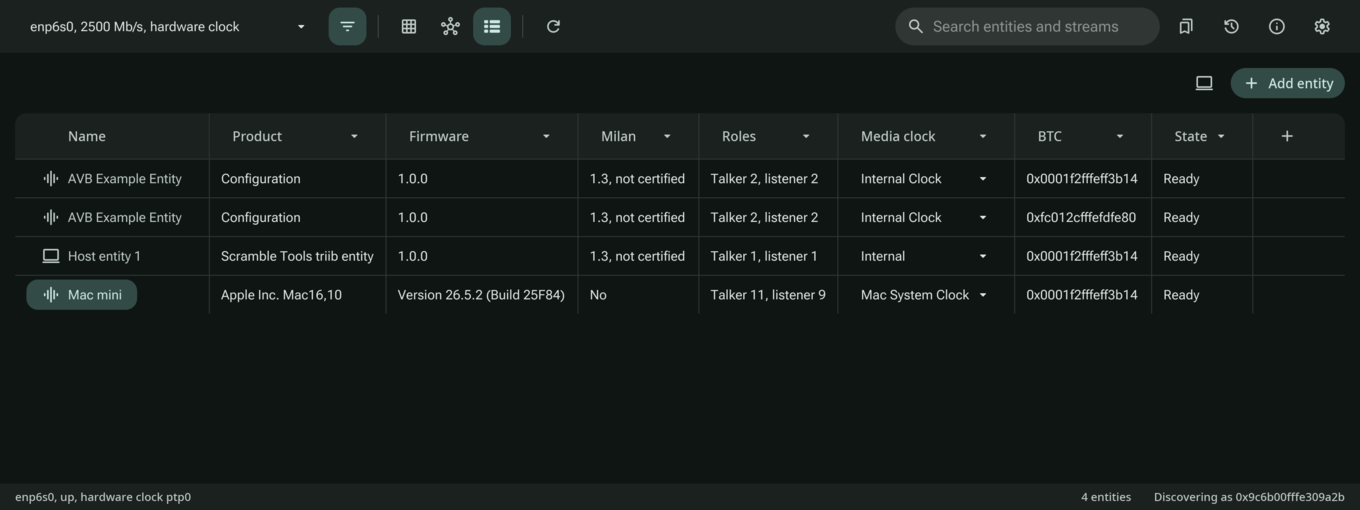
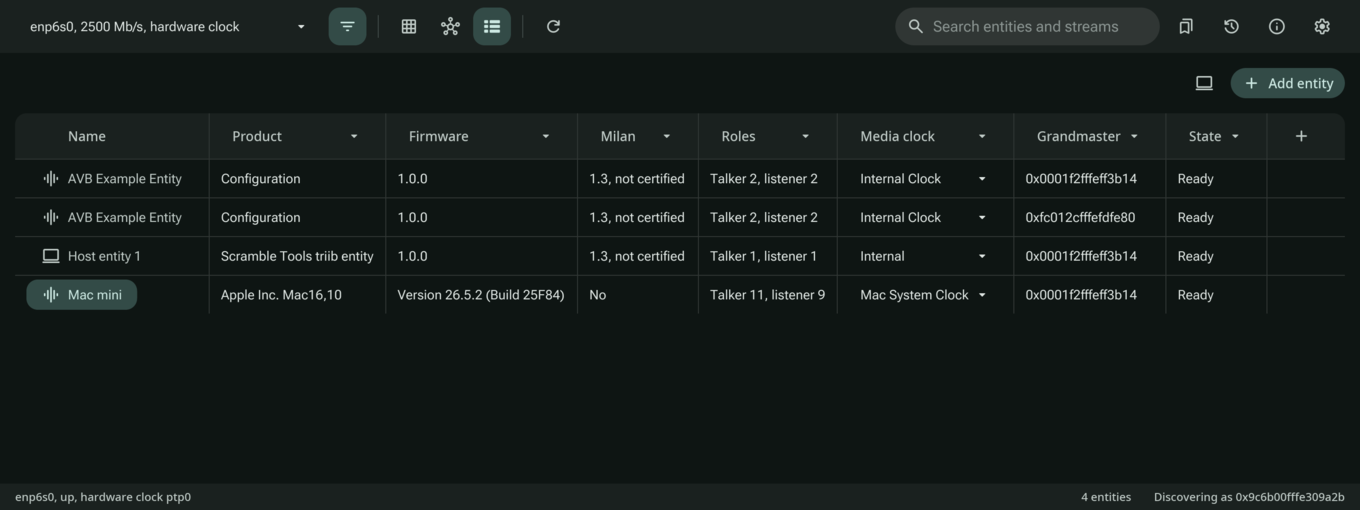
fix: an entity's grandmaster says Grandmaster, not BTC
The entity list's column and the inspector's field for the gPTP
grandmaster an entity advertises said BTC, for the best timeTransmitter
clock, where grandmaster is the word everyone knows. Both now say
Grandmaster, through the app's existing string, already translated in
every language, so advert-btc leaves every catalogue, and triib-cli
discover prints grandmaster. A column saved as btc in the settings, or
its width, loads as the grandmaster column.

The glossary no longer keeps BTC among its acronyms, the ESP notes say
grandmaster, and the entity list's screenshot shows the new heading.

diff --git a/crates/triib/src/settings.rs b/crates/triib/src/settings.rs
@@ -233,7 +233,9 @@ pub enum EntityField {
     #[serde(alias = "clock-source")]
     MediaClock,
     SamplingRate,
-    Btc,
+    /// The gPTP grandmaster the entity advertises.
+    #[serde(alias = "btc")]
+    Grandmaster,
     State,
     EntityId,
     MacAddress,
@@ -262,7 +264,7 @@ impl EntityField {
         Self::Roles,
         Self::MediaClock,
         Self::SamplingRate,
-        Self::Btc,
+        Self::Grandmaster,
         Self::State,
         Self::EntityId,
         Self::MacAddress,
@@ -283,7 +285,7 @@ impl EntityField {
         Self::Milan,
         Self::Roles,
         Self::MediaClock,
-        Self::Btc,
+        Self::Grandmaster,
         Self::State,
         Self::EntityId,
     ];
@@ -301,7 +303,7 @@ impl EntityField {
             Self::Roles => crate::fl!("advert-roles"),
             Self::MediaClock => crate::fl!("entity-media-clock"),
             Self::SamplingRate => crate::fl!("entity-sampling-rate"),
-            Self::Btc => crate::fl!("advert-btc"),
+            Self::Grandmaster => crate::fl!("avb-interface-grandmaster"),
             Self::State => crate::fl!("column-state"),
             Self::EntityId => crate::fl!("advert-entity-id"),
             Self::MacAddress => crate::fl!("common-mac-address"),
@@ -408,11 +410,13 @@ mod tests {
         let file = std::env::temp_dir().join(format!("triib-renamed-{}.toml", std::process::id()));
         triib_store::save(&file, &Settings::default()).unwrap();
         // The media clock view and the clock source column, as an older
-        // triib saved them, beside the media clock column.
+        // triib saved them, beside the media clock column, and the
+        // grandmaster's column by its older name.
         let saved = std::fs::read_to_string(&file).unwrap();
         let older = saved
             .replace("view = \"matrix\"", "view = \"clocks\"")
-            .replace("\"media-clock\"", "\"clock-source\", \"media-clock\"");
+            .replace("\"media-clock\"", "\"clock-source\", \"media-clock\"")
+            .replace("\"grandmaster\"", "\"btc\"");
         assert_ne!(older, saved);
         std::fs::write(&file, older).unwrap();
         let loaded = triib_store::load_or_create::<Settings>(&file)
@@ -421,6 +425,20 @@ mod tests {
         let _ = std::fs::remove_file(&file);
         assert_eq!(loaded.view, View::Entities);
         assert_eq!(loaded.entity_columns, EntityField::DEFAULT_COLUMNS);
+
+        // A column's width kept by the grandmaster's older name.
+        let older = saved.replace(
+            "[entity_column_widths]\n",
+            "[entity_column_widths]\nbtc = 73.5\n",
+        );
+        assert_ne!(older, saved);
+        std::fs::write(&file, older).unwrap();
+        let loaded = triib_store::load_or_create::<Settings>(&file).unwrap();
+        let _ = std::fs::remove_file(&file);
+        assert_eq!(
+            loaded.entity_column_widths.get(&EntityField::Grandmaster),
+            Some(&73.5)
+        );
 
         // The log view, now a panel.
         std::fs::write(&file, saved.replace("view = \"matrix\"", "view = \"log\"")).unwrap();

diff --git a/crates/triib/src/entity_table.rs b/crates/triib/src/entity_table.rs
@@ -95,7 +95,7 @@ fn value(field: EntityField, entity: &DiscoveredEntity, model: Option<&EntityMod
             .map_or_else(String::new, |unit| {
                 Rate(unit.current_sampling_rate).to_string()
             }),
-        EntityField::Btc => describe::clock(&entity.adp),
+        EntityField::Grandmaster => describe::clock(&entity.adp),
         EntityField::State => describe::read_state(model),
         EntityField::EntityId => entity.entity_id().to_string(),
         EntityField::MacAddress => entity.mac.to_string(),
@@ -588,7 +588,7 @@ mod tests {
         // Group becomes Vendor; a field shown elsewhere is not taken twice.
         let _ = triib.update(Message::EntityColumn(0, Some(EntityField::Vendor)));
         assert_eq!(columns(&triib)[0], EntityField::Vendor);
-        let _ = triib.update(Message::EntityColumn(0, Some(EntityField::Btc)));
+        let _ = triib.update(Message::EntityColumn(0, Some(EntityField::Grandmaster)));
         assert_eq!(columns(&triib)[0], EntityField::Vendor);
         // Product goes; MAC address comes at the right.
         let _ = triib.update(Message::EntityColumn(1, None));
@@ -901,11 +901,11 @@ mod tests {
 
     #[test]
     fn menus_offer_only_what_no_column_shows() {
-        let columns = [EntityField::Group, EntityField::Btc];
+        let columns = [EntityField::Group, EntityField::Grandmaster];
         let offered: Vec<EntityField> = unshown(&columns).collect();
         assert_eq!(offered.len(), EntityField::ALL.len() - 2);
         assert!(!offered.contains(&EntityField::Group));
-        assert!(!offered.contains(&EntityField::Btc));
+        assert!(!offered.contains(&EntityField::Grandmaster));
         assert_eq!(offered[0], EntityField::Product);
         assert_eq!(unshown(&EntityField::ALL).count(), 0);
     }

diff --git a/crates/triib/src/view.rs b/crates/triib/src/view.rs
@@ -1876,7 +1876,7 @@ fn advertisement_details(entity: &DiscoveredEntity) -> Vec<Element<'_, Message>>
             flags_text(adp.listener_capabilities.names()),
         ),
         component::section(fl!("advert-clock")),
-        property(fl!("advert-btc"), describe::clock(adp)),
+        property(fl!("avb-interface-grandmaster"), describe::clock(adp)),
         property(
             fl!("advert-gptp-domain"),
             adp.gptp_domain_number.to_string(),

diff --git a/crates/atdecc/src/controller.rs b/crates/atdecc/src/controller.rs
@@ -215,7 +215,7 @@ pub enum OfflineReason {
 pub enum Event {
     /// A new entity, or one back after going offline.
     EntityOnline(EntityId),
-    /// An entity advertised different capabilities, BTC, configuration or
+    /// An entity advertised different capabilities, grandmaster, configuration or
     /// address.
     EntityChanged(EntityId),
     /// An entity's available_index went back, so it restarted; its model

diff --git a/crates/triib-cli/src/main.rs b/crates/triib-cli/src/main.rs
@@ -2680,7 +2680,7 @@ fn summary(entity: &DiscoveredEntity) -> String {
         .contains(EntityCapabilities::GPTP_SUPPORTED)
     {
         format!(
-            "BTC {} domain {}",
+            "grandmaster {} domain {}",
             adp.gptp_grandmaster_id, adp.gptp_domain_number
         )
     } else {

diff --git a/crates/triib/src/describe.rs b/crates/triib/src/describe.rs
@@ -74,7 +74,7 @@ pub fn classes(adp: &Adpdu) -> String {
     }
 }
 
-/// Its gPTP BTC, or that it has none.
+/// Its gPTP grandmaster, or that it has none.
 pub fn clock(adp: &Adpdu) -> String {
     if adp
         .entity_capabilities

diff --git a/docs/esp_avb.md b/docs/esp_avb.md
@@ -55,16 +55,16 @@ captured may run older or newer builds.
 - **Impact:** endpoints powered up together keep advertising in step,
   bunching ADP traffic.
 
-### 4. No re-advertisement when the BTC changes (2026-10-03 23:11 PDT)
+### 4. No re-advertisement when the grandmaster changes (2026-10-03 23:11 PDT)
 
 - **Seen:** from reading the code only, not on the wire.
 - **Code:** the periodic send in `avb.c:1000` is the only trigger for
-  ENTITY_AVAILABLE; nothing sends one when the best timetransmitter clock
-  changes.
+  ENTITY_AVAILABLE; nothing sends one when the grandmaster changes.
 - **Standard:** Milan 1.3, 5.6.3.5.7: the GM_CHANGE event re-advertises
   (after the random delay), so controllers see the new
   gptp_grandmaster_id promptly.
-- **Impact:** small with a 5 s cadence; the new BTC shows up within 5 s.
+- **Impact:** small with a 5 s cadence; the new grandmaster shows up within
+  5 s.
 
 ### 5. Wi-Fi endpoints do not set CLASS_A_SUPPORTED (2026-10-03 23:11 PDT)
 
@@ -101,10 +101,10 @@ captured may run older or newer builds.
   (`avb.h:140`), `8C 1F 64 36 C0 02`, as in `profiles/avb_lite.md` 6.
 - **Fix:** update the comment.
 
-### 8. The Wi-Fi endpoint's BTC keeps changing (2026-10-03 23:22 PDT)
+### 8. The Wi-Fi endpoint's grandmaster keeps changing (2026-10-03 23:22 PDT)
 
 - **Seen:** the Wi-Fi endpoint's gptp_grandmaster_id alternates between
-  its own clock identity (`0xfc012cfffefdfe80`) and the network's BTC
+  its own clock identity (`0xfc012cfffefdfe80`) and the network's grandmaster
   (`0x0001f2fffeff3b14`, the AVB switch), which every wired entity
   reports throughout. Own clock at 22:51:39 to 22:51:49, the network's
   from 22:51:54 and at 22:52:54, its own again at 23:22:43 to 23:22:53.
@@ -165,7 +165,7 @@ captured may run older or newer builds.
 - **Seen:** found reading the code while checking what a controller can
   learn about the network's layout; not yet seen on the wire.
 - **Code:** `avb_send_aecp_rsp_get_as_path` (`atdecc.c:2624`) builds the
-  path from the BTC's identity, the selected source's identity when it
+  path from the grandmaster's identity, the selected source's identity when it
   differs, and the endpoint's own identity, instead of copying the
   pathSequence of the PathTrace TLV of the last Announce received. The
   command table in `atdecc.h:87` still marks the command unsupported.
@@ -174,11 +174,11 @@ captured may run older or newer builds.
   every PTP Instance from the grandmaster to the sender (802.1AS-2020,
   10.3.9.23). Milan 1.3, 5.4.2.24 requires the command, and an
   unsolicited response when the path changes.
-- **Impact:** with more than one bridge between the BTC and the endpoint,
-  the bridges in between are missing, so a controller cannot place the
-  endpoint in the network.
+- **Impact:** with more than one bridge between the grandmaster and the
+  endpoint, the bridges in between are missing, so a controller cannot
+  place the endpoint in the network.
 - **Seen since (2026-10-04 14:50 PDT):** the wired endpoint answered
-  GET_AS_PATH on the bench with two identities, the switch (the BTC) and
+  GET_AS_PATH on the bench with two identities, the switch (the grandmaster) and
   itself, which with one bridge happens to match.
 
 ### 13. GET_COUNTERS answers with stale bytes and a wrong length (2026-10-04 14:50 PDT)

diff --git a/docs/GLOSSARY.md b/docs/GLOSSARY.md
@@ -23,8 +23,8 @@ writes them, including their case:
   and AVB Wireless's Mode A and Mode B.
 - **Protocols and their parts:** ADP, AECP, ACMP, AEM, TLV,
   control_data_length, asCapable.
-- **Other acronyms:** CRF (media clock streams), VLAN, MAC (address), BTC,
-  CRC, SR class letters A and B, FTM and TM (Wi-Fi's timing measurements),
+- **Other acronyms:** CRF (media clock streams), VLAN, MAC (address), CRC,
+  SR class letters A and B, FTM and TM (Wi-Fi's timing measurements),
   BSSID.
 - **Product names:** triib, Omarchy, Wi-Fi.
 - **Units:** Hz, kHz, MHz, GHz, ns, µs, ms, kb/s, Mb/s, Gb/s, dBm.

diff --git a/CHANGELOG.md b/CHANGELOG.md
@@ -78,6 +78,10 @@ it receives and sends.
 - `triib-cli streams` prints each input's counters, and its probing
   state and last ACMP answer where Milan's stream info gives them.
 - The new app icon.
+- The entity list's column and the inspector's field for the gPTP
+  grandmaster an entity advertises say Grandmaster, rather than BTC, as
+  does `triib-cli discover`; a column kept as `btc` in the settings
+  loads as it.
 - The inspector is titled by the picked entity's name, cut short to
   leave the close button its room.
 - In the inspector, a value short enough to sit beside its label does:
